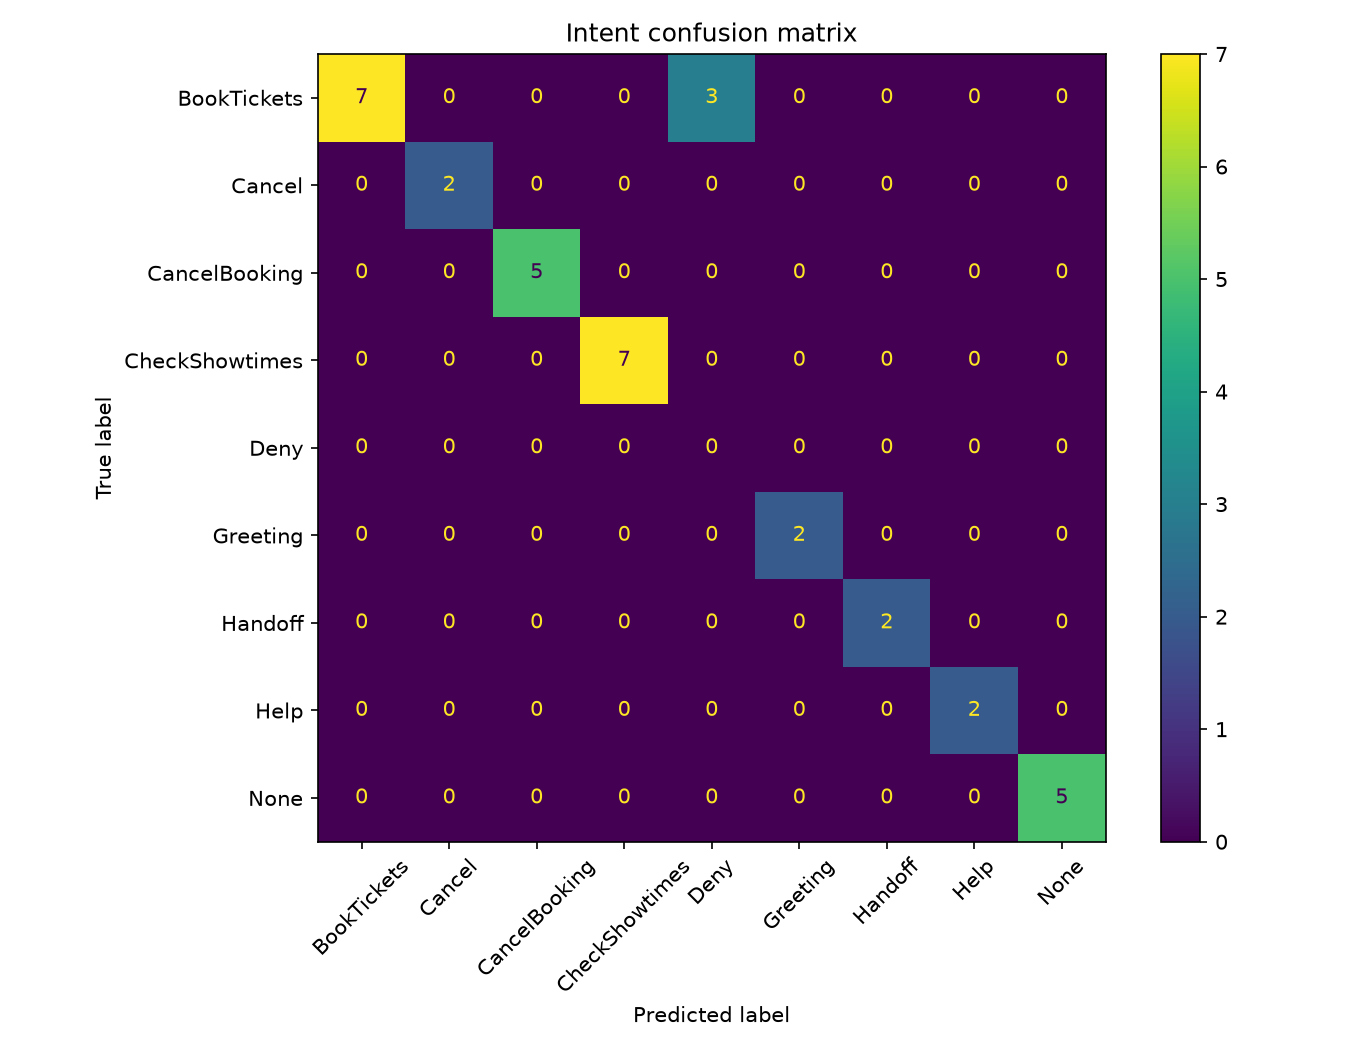
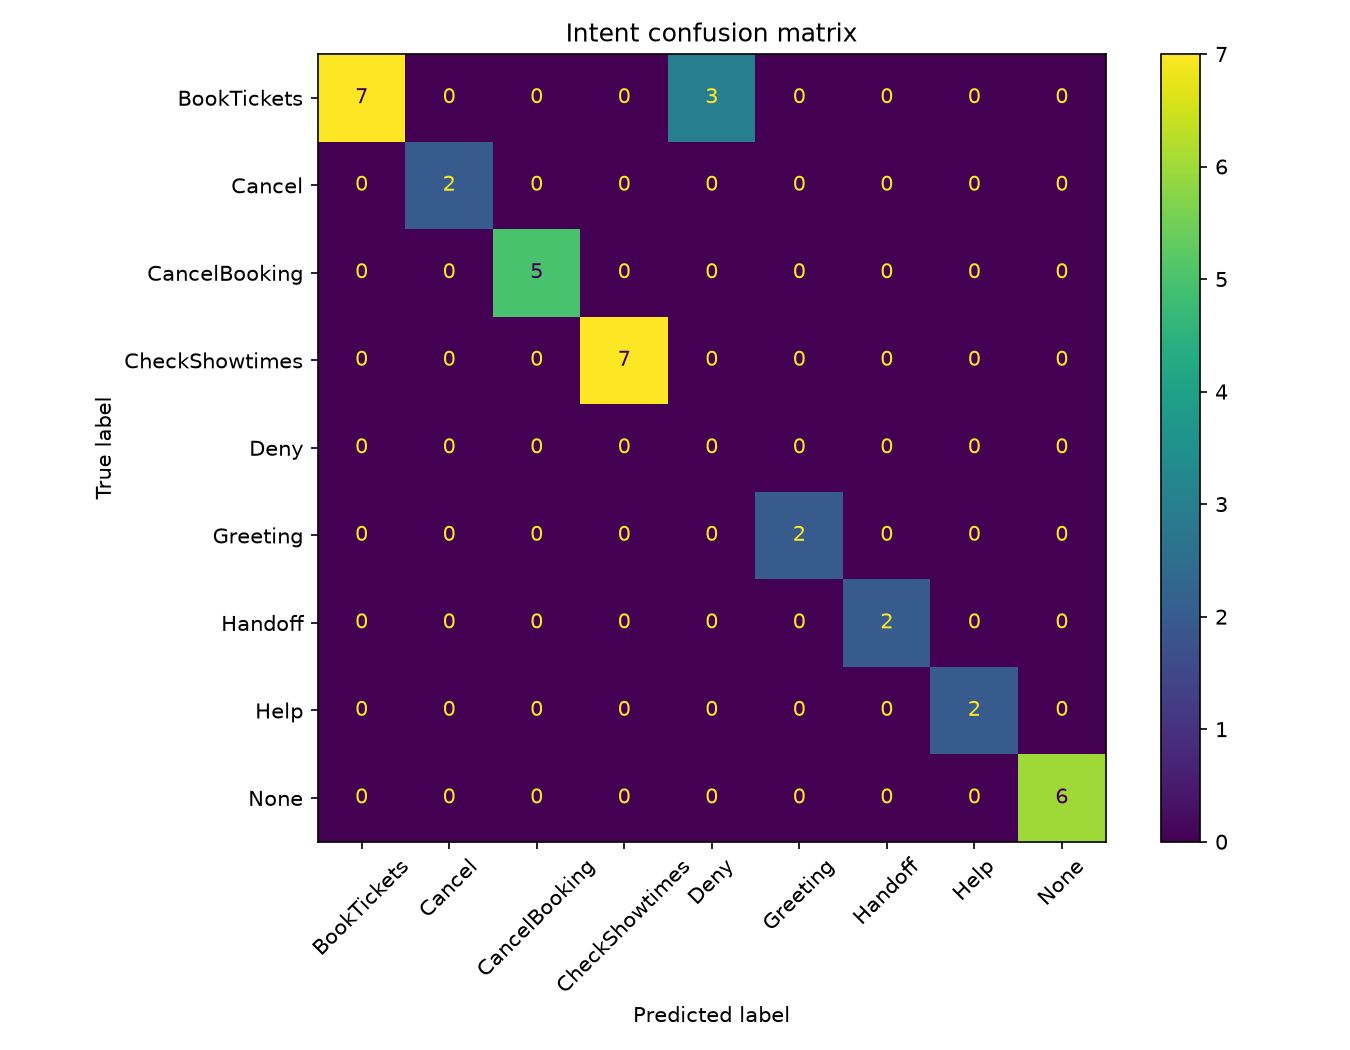
Improve report

Changed region(s): [[0.7467, 0.701, 0.84, 0.8229]]

diff --git a/eval/evaluate.py b/eval/evaluate.py
@@ -16,7 +16,7 @@ from extraction import extract, validate  # noqa: E402
 try:
     import matplotlib.pyplot as plt
     from sklearn.metrics import (classification_report, confusion_matrix,
-                                 ConfusionMatrixDisplay)
+                                 ConfusionMatrixDisplay, f1_score)
     HAS_SKLEARN = True
 except ImportError:
     HAS_SKLEARN = False
@@ -59,7 +59,12 @@ def run_once(rows: list[dict]) -> tuple[list, list, list[dict], float, dict]:
 
         # slot matching — compare resolved predicted values against expected
         expected = row["slots"]
-        for slot_name, exp_val in expected.items():
+        slot_names = set(expected) | {
+            name for name in slots
+            if not name.startswith("_") and name != "intent"
+        }
+        for slot_name in slot_names:
+            exp_val = expected.get(slot_name)
             pred_val = slots.get(slot_name)
             slot_results.append({
                 "slot": slot_name,
@@ -78,8 +83,14 @@ def run_once(rows: list[dict]) -> tuple[list, list, list[dict], float, dict]:
 
 def slot_f1(slot_results: list[dict]) -> dict:
     tp = sum(1 for r in slot_results if r["match"] and r["expected"] is not None)
-    fp = sum(1 for r in slot_results if not r["match"] and r["predicted"] is not None)
-    fn = sum(1 for r in slot_results if not r["match"] and r["predicted"] is None)
+    fp = sum(
+        1 for r in slot_results
+        if not r["match"] and r["predicted"] is not None
+    )
+    fn = sum(
+        1 for r in slot_results
+        if not r["match"] and r["expected"] is not None
+    )
     precision = tp / (tp + fp) if (tp + fp) else 0.0
     recall = tp / (tp + fn) if (tp + fn) else 0.0
     f1 = 2 * precision * recall / (precision + recall) if (precision + recall) else 0.0
@@ -87,8 +98,8 @@ def slot_f1(slot_results: list[dict]) -> dict:
 
 
 def oos_accuracy(y_true: list, y_pred: list) -> float:
-    # out-of-scope covers both None (generic OOS) and Handoff (escalation)
-    oos_intents = {"None", "Handoff"}
+    # Handoff is an in-scope escalation intent, not an out-of-scope response.
+    oos_intents = {"None"}
     oos_idx = [i for i, y in enumerate(y_true) if y in oos_intents]
     if not oos_idx:
         return float("nan")
@@ -122,8 +133,12 @@ def main():
 
         if HAS_SKLEARN:
             labels = sorted(set(y_true + y_pred))
+            macro_f1 = f1_score(
+                y_true, y_pred, labels=labels, average="macro", zero_division=0
+            )
             print("\nClassification report:")
             print(classification_report(y_true, y_pred, labels=labels, zero_division=0))
+            print(f"Intent macro-F1:  {macro_f1:.2%}")
 
         sf = slot_f1(slot_results)
         print(f"Slot micro-F1:   {sf['f1']:.2%}  "

diff --git a/REPORT.md b/REPORT.md
@@ -100,28 +100,35 @@ The latest validation check reported:
 The evaluator also saves an intent confusion matrix and supports three
 test-set runs for the Track A consistency requirement. Voice latency is
 measured separately in the sidebar because it includes Whisper and TTS time.
+It reports intent accuracy and intent macro-F1 separately, along with the
+classification report, so that a large intent class cannot hide weak
+performance on a smaller class.
 
-The final test set had 35 utterances and three runs.
+The final test set had 36 utterances and three runs. The added out-of-scope
+example was not used in the prompt or in any tuning.
 
-- run 1 intent accuracy: 91.43 percent
-- run 2 intent accuracy: 85.71 percent
-- run 3 intent accuracy: 91.43 percent
-- mean intent accuracy: 89.52 percent
+- run 1 intent accuracy: 91.67 percent
+- run 2 intent accuracy: 88.89 percent
+- run 3 intent accuracy: 91.67 percent
+- mean intent accuracy: 90.74 percent
+- intent macro-F1: 86.93 percent, 85.22 percent, and 86.93 percent by run
+- mean intent macro-F1: 86.36 percent
 - out-of-scope accuracy: 100 percent on all runs
-- slot micro-F1: 95.65 percent, 94.12 percent, and 95.65 percent
-- mean slot micro-F1: 95.14 percent
-- mean latency: 2.38 seconds per turn
-- mean prompt tokens: 1,034
+- slot micro-F1: 80.49 percent, 79.52 percent, and 79.52 percent
+- mean slot micro-F1: 79.84 percent
+- mean latency: 2.21 seconds per turn
+- mean prompt tokens: 1,030
 - mean completion tokens: 33
-- consistency: 33 of 35 rows, or 94.29 percent
+- consistency: 35 of 36 rows, or 97.22 percent
 
 ![Final test intent confusion matrix](eval/results/confusion_matrix.png)
 
 BookTickets remained the hardest intent. The main errors used “see” or
-“watch” without a clear ticket word. One handoff example was also unstable
-across runs. The other intent groups were stable. The model is not fully
-deterministic even with temperature zero because the tool-agent call and
-network responses can change the context.
+“watch” without a clear ticket word. The other intent groups were stable,
+although one CheckShowtimes prediction and one None prediction changed
+between runs. The model is not fully deterministic even with temperature
+zero because the tool-agent call and network responses can change the
+context.
 
 ## 6. Error analysis and requirement derivation
 We noticed the following issues during first evaluation and fixed them in the final design.
@@ -153,13 +160,75 @@ These cases explain the main requirements. The requirement set asks for multi-tu
 - Informal text also causes errors. Examples include tkts, insideout2, and reservashun. The model can often recover the meaning. The fallback cannot recover every form.
 - Negation is another hard case. “I do not want IMAX” must produce Standard, not IMAX. The model can use the full sentence context. A simple entity rule may choose the wrong value.
 
-## 8. Track B comparison
+## 8. The other track: what Track B would likely do
 
-- Track B would offer faster local intent checks and a clearer audit trail. It would also need many examples for short answers, typos, slang, and negation.
+Track B would probably perform well on the clearest examples in this test
+set, especially messages that contain an unmistakable action word, a movie
+title, and a time or ticket count. A bag-of-words recognizer can be very
+effective when a new message is close to one of its example utterances, and
+it would make the BookTickets and CheckShowtimes boundary visible through its
+scores. It would also be cheap to run because recognition happens locally,
+with no API request for each turn.
 
-- Track A handles varied language better. However, it costs more (but still very little), adds network delay, and sends user text to OpenAI. Temperature zero gives stable results for the same prompt and history. A change in history can still change the result.
+The hardest cases in our test set are exactly the cases where Track B would
+have the most trouble. Several BookTickets errors came from short requests
+such as “I want to see Oppenheimer,” where the word “see” does not explicitly
+say whether the user wants a ticket or showtime information. The Track B
+examples could include both meanings, but adding more overlapping examples
+would not guarantee a reliable distinction. The same problem appears in
+correction messages such as “actually make it Tuesday instead of Friday.”
+The meaning depends on the existing dialog state and on the fact that the
+new date replaces only one previous value. Track A can give the whole
+sentence and recent history to a model that has learned broader language
+patterns, while Track B would need explicit state handling and carefully
+designed examples around every likely correction.
 
-- A useful future design might use Track B for clear cases. It would call the model only when the local score is low.
+Paraphrase, typos, slang, and negation would also favor Track A in this
+domain. The test set includes informal forms such as “tkts,” compressed
+movie names, and misspellings, as well as “I don't want the IMAX, just
+regular seats.” A recognizer based on word overlap may score IMAX highly
+even though the user is rejecting it. A synonym list and more examples can
+help with known variations, but they make the recognizer increasingly
+dependent on manual coverage. A pretrained transformer behind Track A is
+more likely to connect “regular seats” with Standard and to understand that
+the negated format is not the requested format. This is a likely advantage,
+not a guarantee, since our own unstable handoff result shows that an LLM can
+still make different choices across runs.
+
+Track B would have the stronger control and auditability story. Its intent
+examples, synonym lists, regex entities, and threshold are all visible in
+the repository, and the same input should produce the same result on the
+same version of the code. It would be easier to prove that a value came
+from the catalog, that a score exceeded the selected threshold, and that an
+unsupported request was sent to the fallback. Track A gives Python the
+final authority over catalog validation, confirmation, cancellation, and
+handoff, so our business rules are still protected, but the initial
+classification and extraction remain probabilistic. The JSON schema makes
+the boundary clearer, but it does not make the model's decision itself
+fully auditable.
+
+The tradeoff is not just accuracy. Track B has nearly zero marginal API
+cost, lower and more predictable latency, and better privacy because user
+messages stay local. Track A sends the message and a trimmed history to
+OpenAI, incurs a small per-turn cost, and normally takes about 2.21 seconds
+per turn in our final test. Track A also reports prompt and completion
+tokens, which makes its cost measurable, while the final three-run
+consistency of 97.22 percent shows that temperature zero does not guarantee
+identical outputs in a networked tool-based system. Track B would be more
+deterministic, although its behavior could still change when its examples
+or threshold are changed.
+
+A practical hybrid would use Track B as a fast local first pass. If the
+recognizer found a strong score for a simple request such as “two tickets
+for Dune at 7 PM,” Python could validate the slots and continue without an
+LLM call. If the score were below a threshold, or if the message contained
+negation, a correction, an unfamiliar spelling, or several competing
+intent cues, the system could send it to the Track A extractor. The reverse
+hybrid would also be useful: Track A could extract the language, while a
+rule-based fast path could handle greetings, cancel commands, catalog
+membership, and final confirmation. That arrangement would preserve the
+paraphrase advantage of Track A while keeping predictable business rules,
+privacy options, and low latency for routine turns.
 
 ## 9. Limits and next steps
 

diff --git a/DESIGN.md b/DESIGN.md
@@ -63,7 +63,7 @@ Greeting answers a hello. Help lists the bot services. Cancel clears the active 
 - Python checks the values against the catalog.
 - The regex fallback runs after a model error.
 - Dialog state stores accepted slots.
-- The bot confirms each accepted slot and asks for the next one.
+- The bot confirms each accepted slot and asks for the next missing slot.
 - The bot drops invalid values and repeats the same question.
 - The bot shows a summary when all booking slots are valid.
 - The bot creates a mock reference after confirmation.
@@ -91,19 +91,23 @@ flowchart TD
 ## 6. Tool and voice support for Extra Credit :)
 
 The Track A agent can call `check_availability` when a user asks about
-showtimes or prices. The function reads catalog.json and returns the movie,
-format, showtimes, price, and date. Python runs the call through the
+showtimes or prices. The function reads catalog.json and returns the
+movie, format, showtimes, price, and date. Python runs the call through the
 allow-list in tools.py. Unknown tool names are rejected. The agent allows at
 most five tool iterations.
 
-We created our own start and stop controls for voice mode with `streamlit-mic-recorder` so it is easier to use.
-Whisper converts the recording to text. The normal extraction and dialog flow
-then handles it. The reply is sent to tts-1 and played in the browser. The
-sidebar reports extraction latency and the combined voice latency for each
-voice turn.
+We created our own start and stop controls for voice mode with
+`streamlit-mic-recorder` so it is easier to use. Whisper converts the
+recording to text. The normal extraction and dialog flow then handles it.
+The reply is sent to tts-1 and played in the browser. The sidebar reports
+extraction latency and the combined voice latency for each voice turn.
 
 ## 7. Track choice
 
-Track A fits this task because users can give several values in one sentence. They can use nicknames, number words, abbreviations, and informal time phrases.
+Track A fits this task because users can give several values in one sentence.
+They can use nicknames, number words, abbreviations, and informal time
+phrases.
 
-The model extracts the values. Python checks the values and controls the state. This split limits false showtimes and prevents a model reply from completing an order without confirmation.
+The model extracts the values. Python checks the values and controls the
+state. This split limits false showtimes and prevents a model reply from
+completing an order without confirmation.
